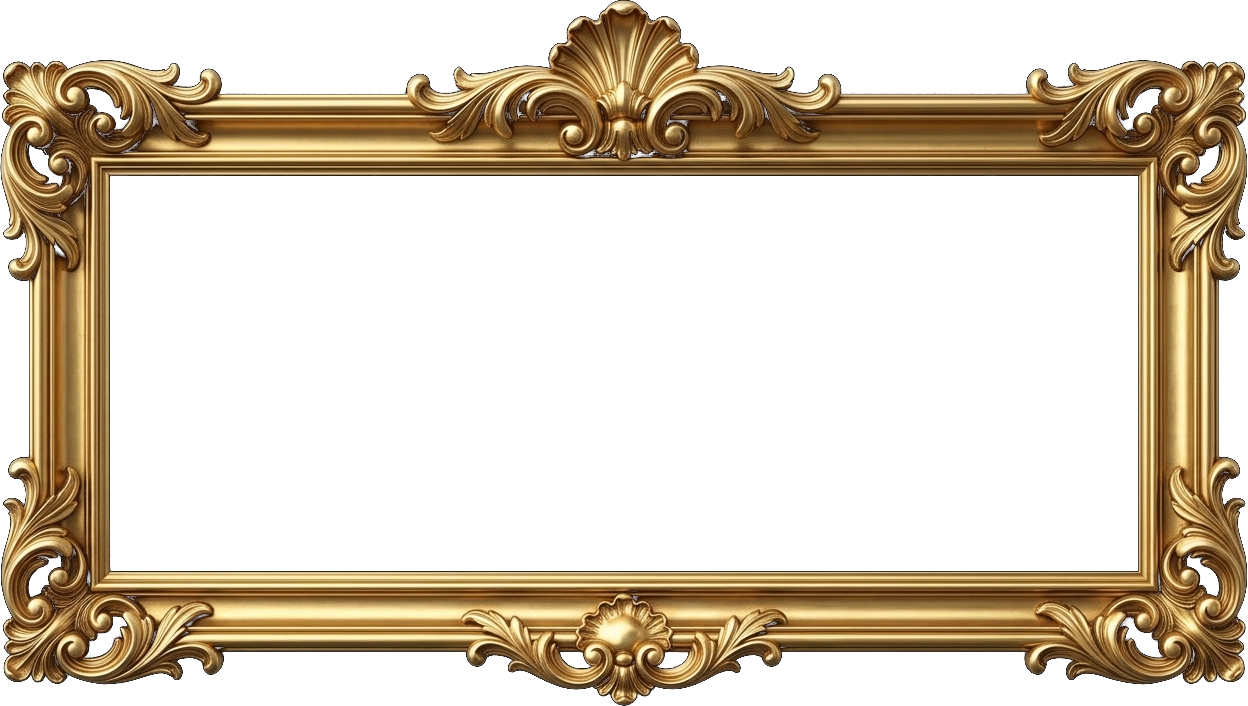
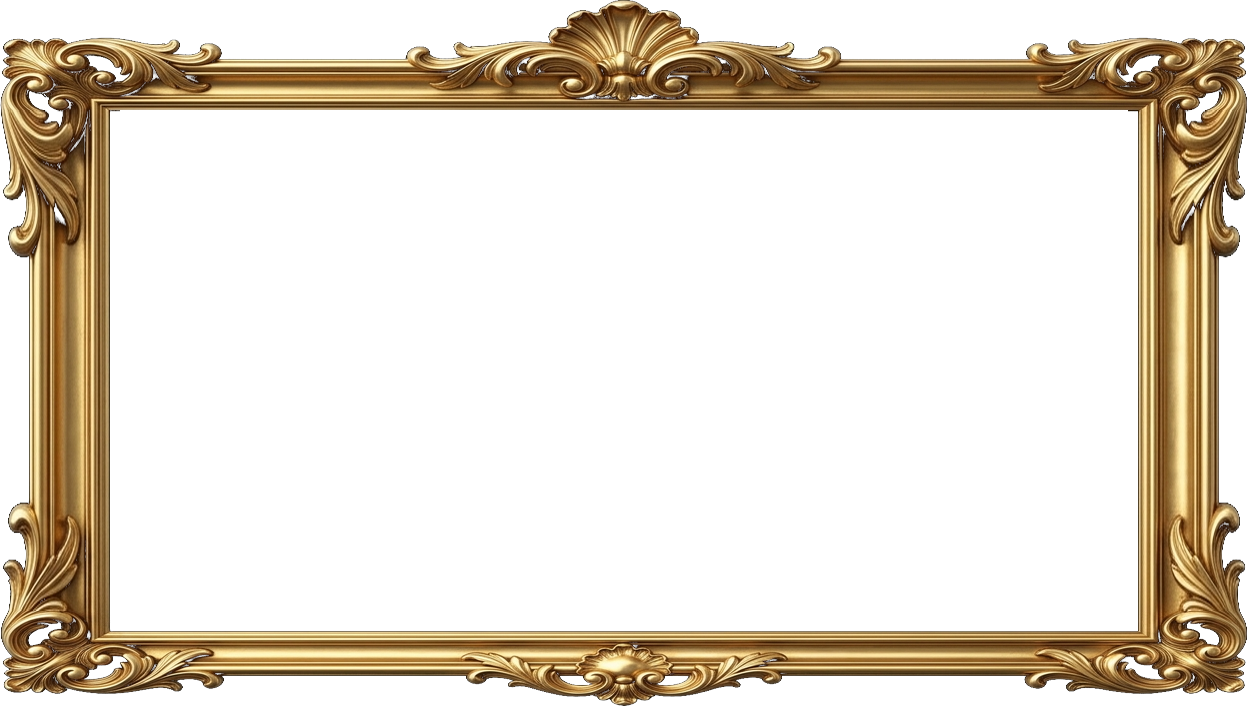
Equalized Legendary frame size to match other cards with full interior text clearance!

diff --git a/frontend/src/pages/Grimoire.tsx b/frontend/src/pages/Grimoire.tsx
@@ -181,22 +181,22 @@ const AchievementFrame = ({ rarity, color, isEarned }: { rarity: string, color: 
   if (rarity === 'Legendary') {
     return (
       <div className="absolute inset-0 pointer-events-none z-0">
-        {/* Ambient Gothic Ruby Glow (Confined strictly inside the frame window) */}
+        {/* Ambient Gothic Ruby Glow */}
         <div 
-          className="absolute inset-x-[24px] inset-y-[26px] rounded-sm pointer-events-none z-0" 
+          className="absolute inset-[6px] rounded-sm pointer-events-none z-0" 
           style={{ 
-            background: 'radial-gradient(ellipse at center, rgba(160, 20, 20, 0.5) 0%, rgba(35, 4, 6, 0.9) 65%, rgba(12, 1, 2, 1) 100%)',
-            boxShadow: 'inset 0 0 25px rgba(0,0,0,0.95), 0 0 10px rgba(0,0,0,0.8)'
+            background: 'radial-gradient(ellipse at center, rgba(160, 20, 20, 0.45) 0%, rgba(35, 4, 6, 0.85) 65%, rgba(12, 1, 2, 0.95) 100%)',
+            boxShadow: 'inset 0 0 25px rgba(0,0,0,0.9)'
           }} 
         />
 
-        {/* 3D Gilded Baroque Picture Frame (Serving as the actual border of the box) */}
+        {/* 3D Gilded Baroque Picture Frame (Flush with outer border) */}
         <img 
           src="/legendary_baroque_frame.png" 
           alt="Legendary Baroque Frame" 
           className="absolute inset-0 w-full h-full object-fill pointer-events-none z-10"
           style={{ 
-            filter: 'drop-shadow(0 0 10px rgba(212,175,55,0.6)) drop-shadow(0 2px 6px rgba(0,0,0,0.9))' 
+            filter: 'drop-shadow(0 0 8px rgba(212,175,55,0.6)) drop-shadow(0 2px 6px rgba(0,0,0,0.9))' 
           }}
         />
       </div>
@@ -878,11 +878,8 @@ export function Grimoire() {
                       animate={{ opacity: 1 }}
                       transition={{ duration: 0.5, delay: i * 0.08 }}
                       whileHover={{ scale: 1.02, transition: { duration: 0.2, delay: 0 } }}
-                      className={`relative p-2 sm:p-2.5 flex flex-col h-full rounded-none group ${a.rarity === 'Legendary' ? 'overflow-visible' : 'overflow-hidden'} ${!a.earned ? 'opacity-40 grayscale' : ''}`}
-                      style={a.rarity === 'Legendary' ? {
-                        backgroundColor: 'transparent',
-                        boxShadow: 'none'
-                      } : { 
+                      className={`relative p-2 sm:p-2.5 flex flex-col h-full rounded-none overflow-hidden group ${!a.earned ? 'opacity-40 grayscale' : ''}`}
+                      style={{ 
                         backgroundColor: '#0a0a0a',
                         backgroundImage: `radial-gradient(ellipse at center, ${rStyle.bg} 0%, transparent 100%)`,
                         boxShadow: a.earned ? `inset 0 0 15px ${rStyle.bg}, 0 0 10px ${rStyle.glow || 'rgba(0,0,0,0.5)'}` : '0 0 10px rgba(0,0,0,0.5)'
@@ -896,7 +893,7 @@ export function Grimoire() {
                       />
 
                       {/* Perfectly centered icon and text */}
-                      <div className={`flex-1 flex flex-col justify-center items-center gap-1 relative z-10 ${a.rarity === 'Legendary' ? 'pt-3 pb-6' : 'pb-4'}`}>
+                      <div className="flex-1 flex flex-col justify-center items-center gap-1.5 relative z-10 pt-1 pb-5">
                         {/* Icon inside a metallic frame */}
                         <div className="w-8 h-8 flex items-center justify-center relative shrink-0">
                           <svg className="absolute inset-0 w-full h-full opacity-60" viewBox="0 0 40 40" fill="none" xmlns="http://www.w3.org/2000/svg">
@@ -912,7 +909,7 @@ export function Grimoire() {
                       </div>
                       
                       {/* Elevated Rarity Badge */}
-                      <div className={`absolute ${a.rarity === 'Legendary' ? 'bottom-[23px]' : 'bottom-5'} left-0 w-full flex justify-center z-10 pointer-events-none`}>
+                      <div className="absolute bottom-4 left-0 w-full flex justify-center z-10 pointer-events-none">
                         <span
                           className={`font-mono text-[8px] uppercase tracking-widest px-1.5 py-0.5 pointer-events-auto ${a.rarity === 'Mythic' ? 'animate-pulse font-bold drop-shadow-[0_0_5px_rgba(212,175,55,0.8)]' : ''}`}
                           style={{ color: rStyle.text, border: `1px solid ${rStyle.border}`, background: rStyle.bg }}
